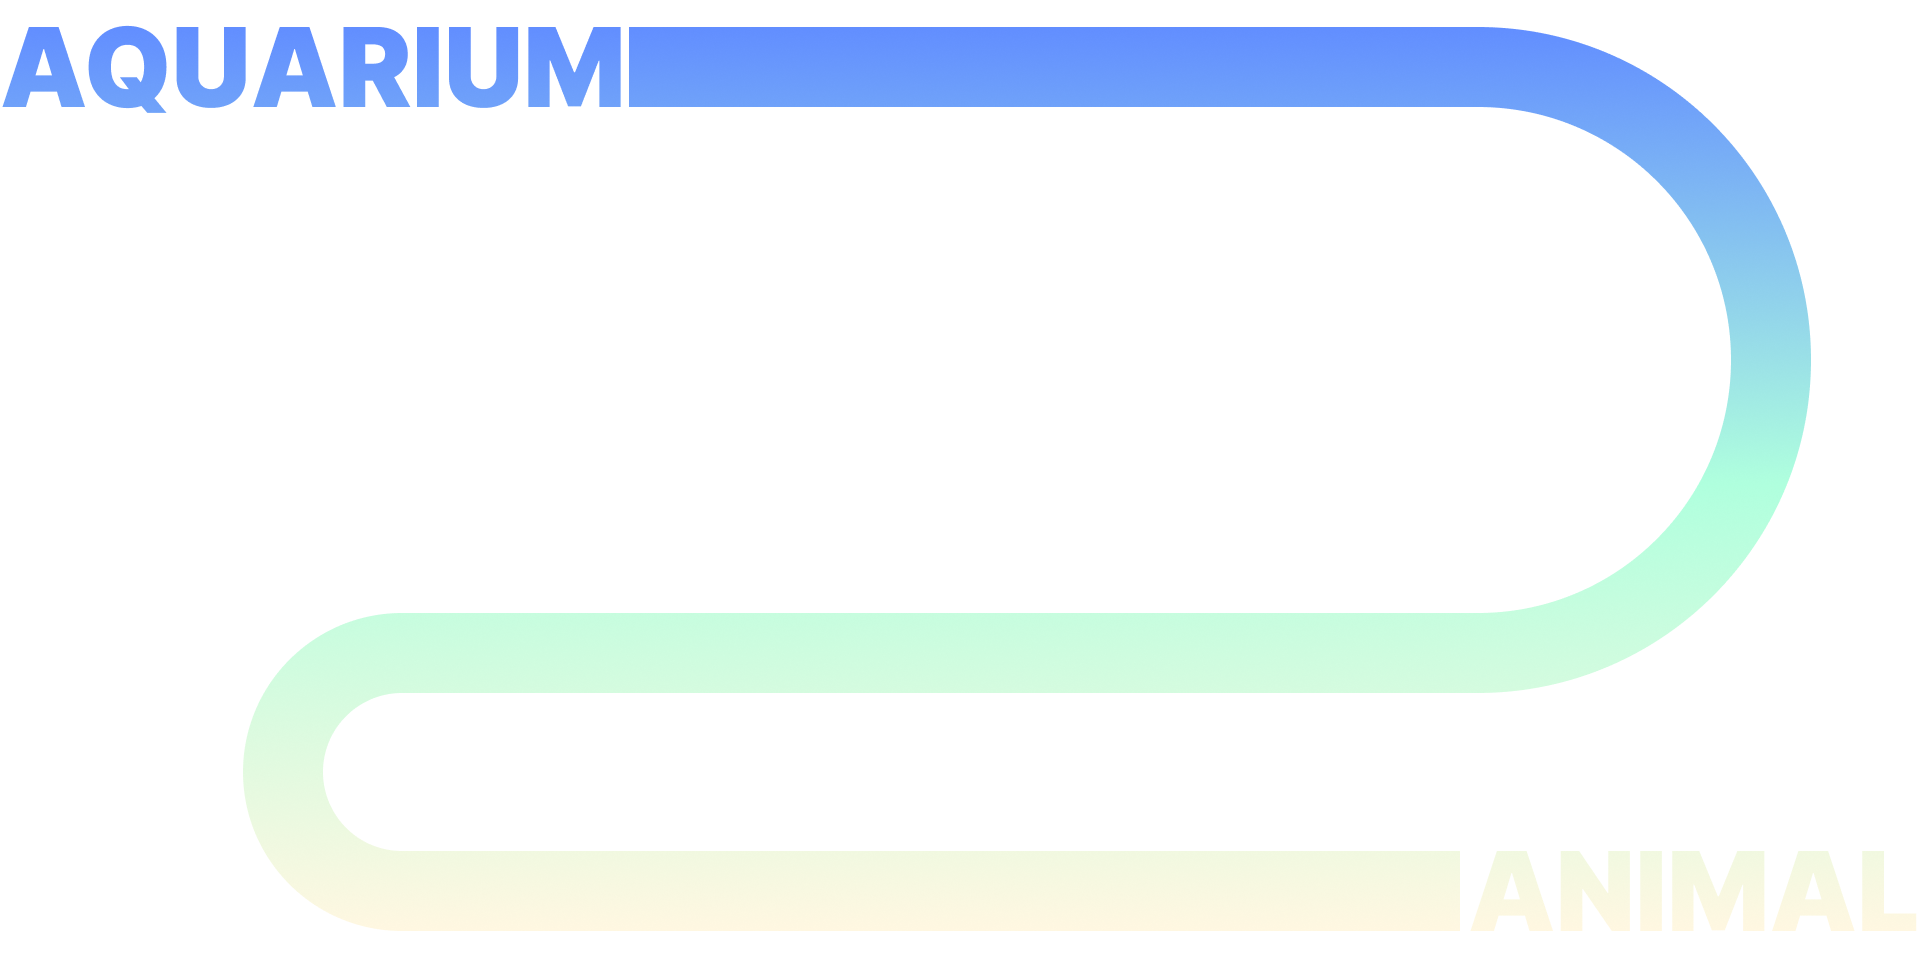
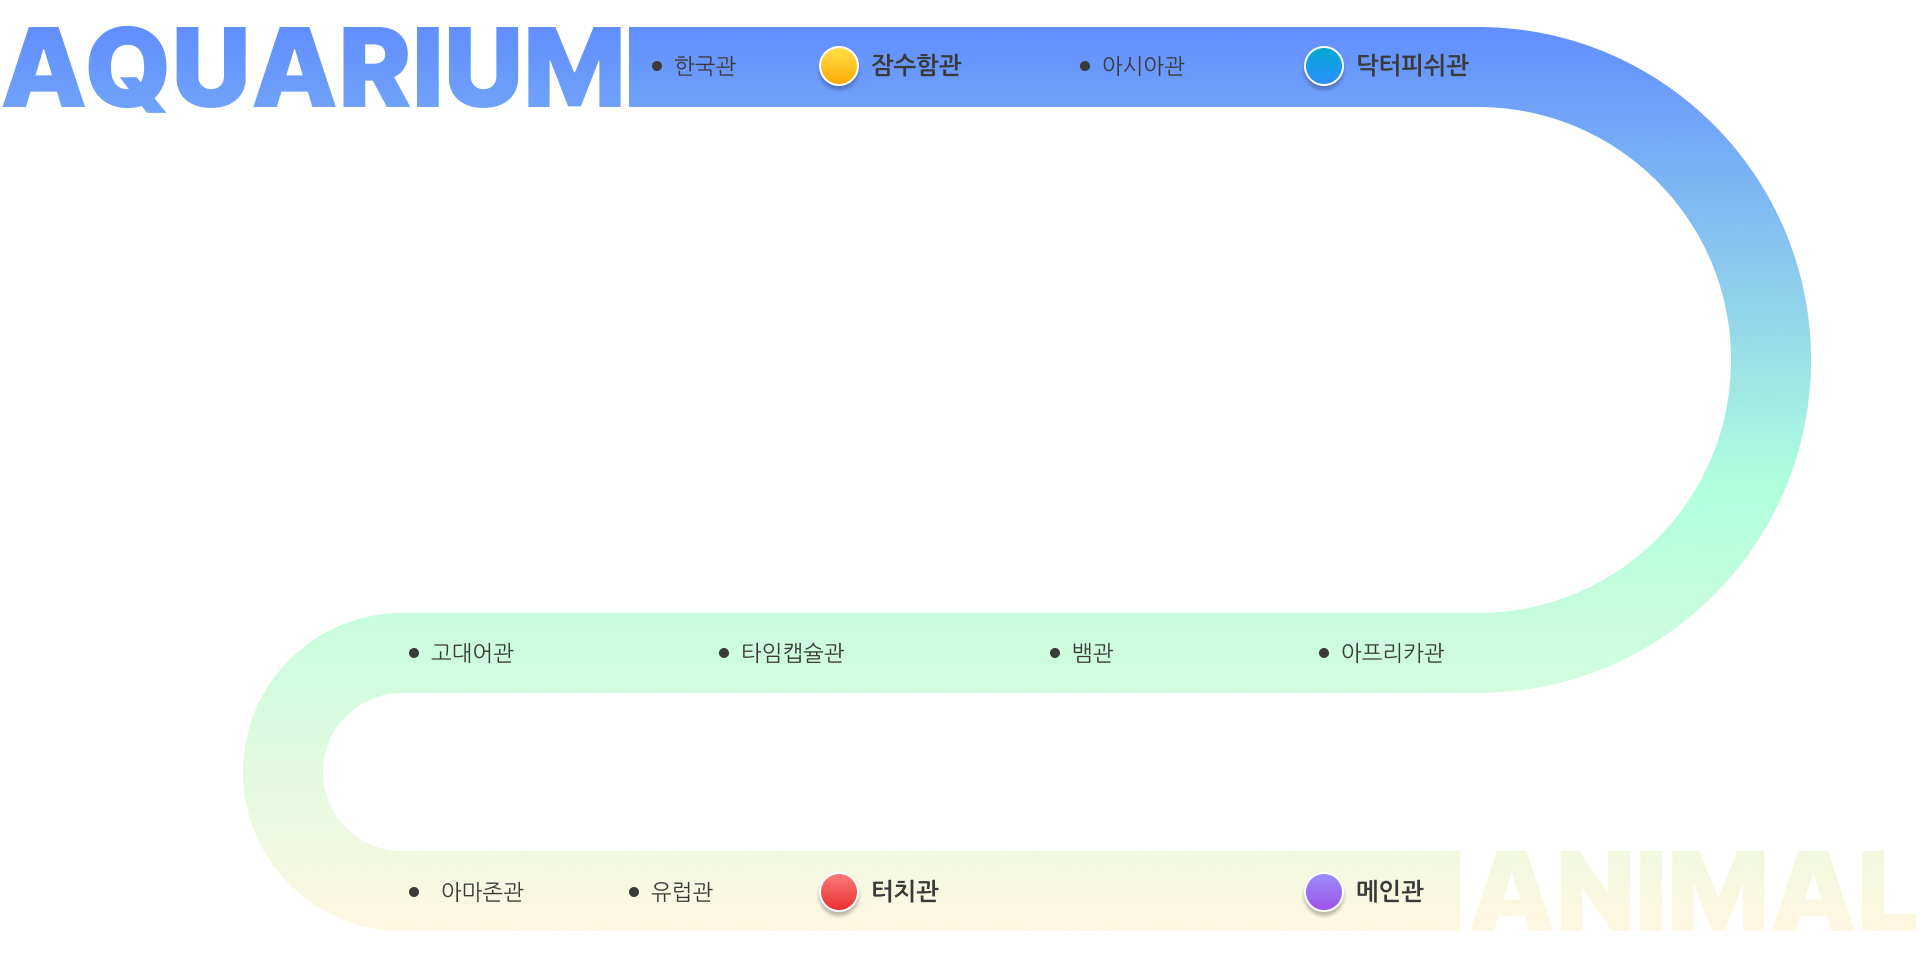
20250121

diff --git a/project001/style.css b/project001/style.css
@@ -646,11 +646,14 @@ img {
 .theme .pro .f01 .rough {
     display: flex;
     justify-content: center;
+    
 }
 
 .theme .pro .f01 .rough .img {}
 
-.theme .pro .f01 ul {}
+.theme .pro .f01 ul {
+    position: relative;
+}
 
 .theme .pro .f01 ul li {
     width: 470px;
@@ -676,6 +679,19 @@ img {
 .theme .pro .f01 ul li h4 {}
 
 .theme .pro .f01 ul li p {}
+
+.theme .pro .f01 ul li:nth-child(1) {
+    display: flex;
+    position: absolute;
+    right: 8.3333%;
+    top: 8%;
+}
+
+.theme .pro .f01 ul li:nth-child(2) {}
+
+.theme .pro .f01 ul li:nth-child(3) {}
+
+.theme .pro .f01 ul li:nth-child(4) {}
 
 /* .theme .pro .f01 .room {}
 
